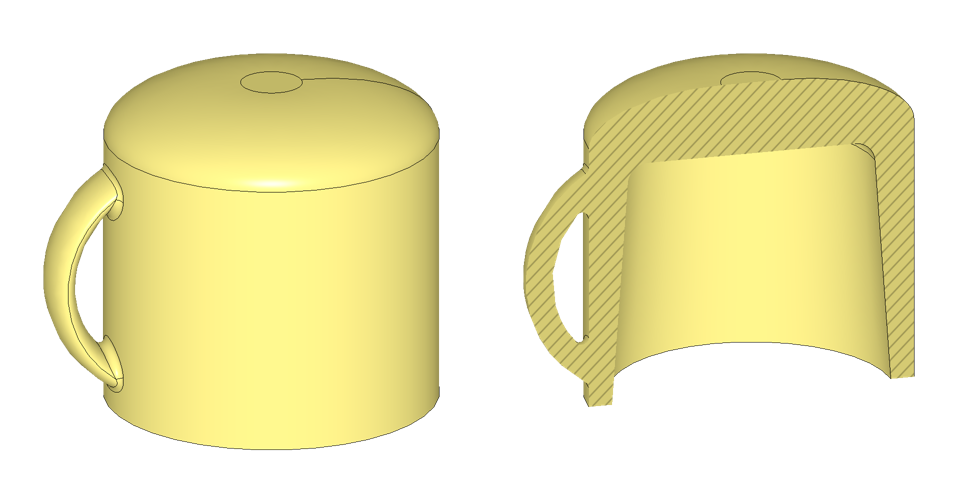
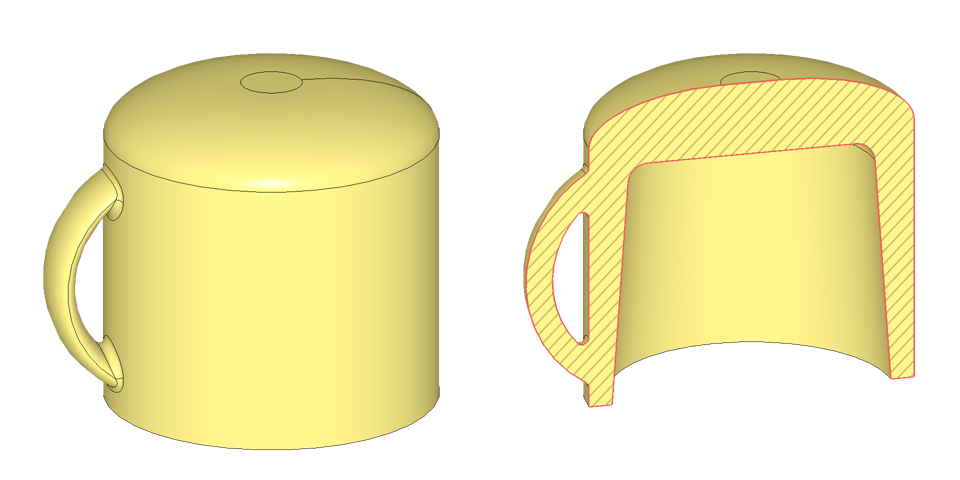
clip plane outline and object material

Changed region(s): [[0.5312, 0.1562, 0.9688, 0.8438]]

diff --git a/build123d_draft.py b/build123d_draft.py
@@ -1010,15 +1010,24 @@ def export_image(part, size=(720, 480), bg=None, transparent=True, loc=None, cli
 
     prs = OCP.AIS.AIS_Shape(part.wrapped)
     if clip:
+        outline = part & Face.make_plane(clip)
+
+        for w in outline.wires():
+            prs_outline = OCP.AIS.AIS_Shape(w.wrapped)
+            prs_outline.SetColor(ocp_color(0.9, 0.1, 0.1))
+            prs_outline.SetWidth(3)
+            ctx.Display(prs_outline, OCP.AIS.AIS_Shaded, -1, False)
+
         cp = OCP.Graphic3d.Graphic3d_ClipPlane(clip.wrapped)
         tx = OCP.Graphic3d.Graphic3d_Texture2D(OCP.TCollection.TCollection_AsciiString('resources/hatch_2.png'))
         tx.GetParams().SetScale(OCP.gp.gp_Vec2f(0.05, 0.05))
-        # tx.EnableModulate()
+        tx.EnableModulate()
         tx.EnableRepeat()
 
         cp.SetCapping(True)
         cp.SetCappingTexture(tx)
         cp.SetCappingColor(color)
+        cp.SetUseObjectMaterial(True)
         prs.AddClipPlane(cp)
 
     ctx.Display(prs, OCP.AIS.AIS_Shaded, -1, False)
